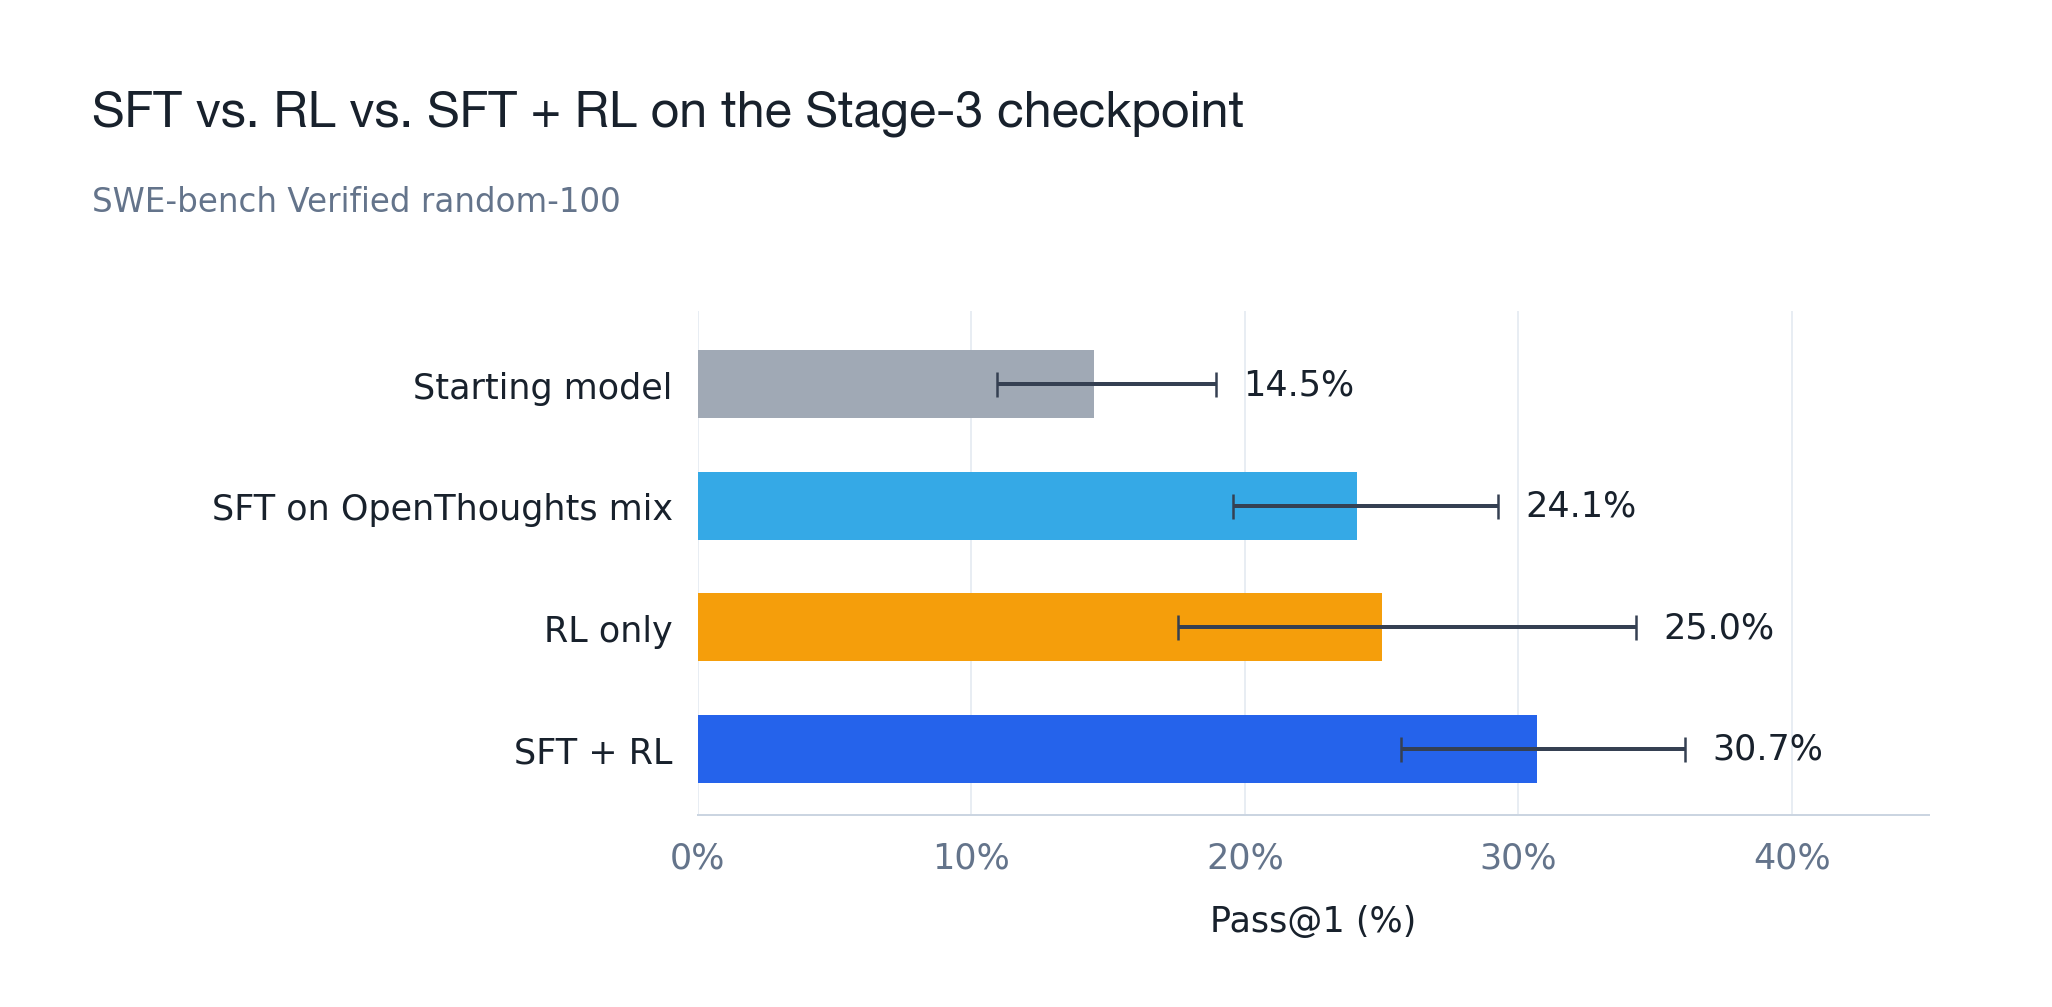
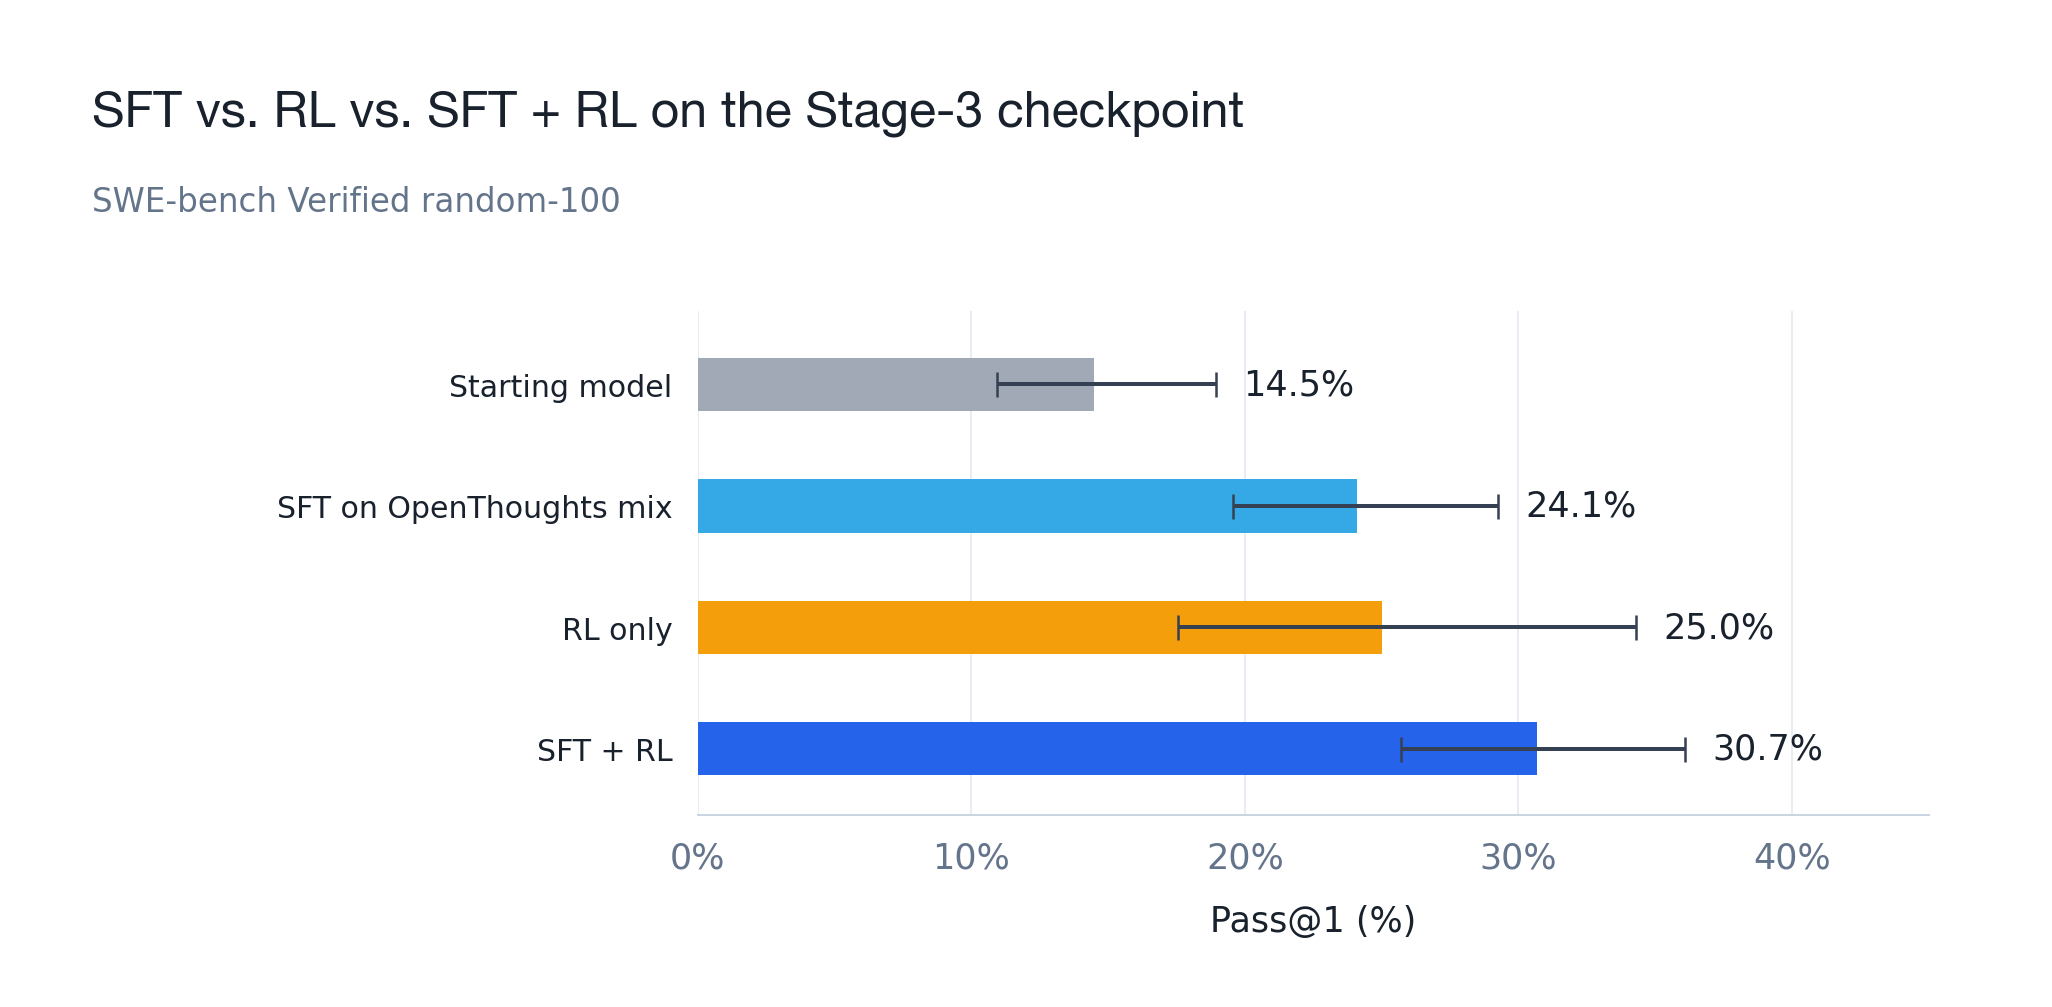
Slim historical comparison bars and row labels

diff --git a/scripts/render_snowball_earlier_swe.py b/scripts/render_snowball_earlier_swe.py
@@ -20,12 +20,12 @@ fig,ax=plt.subplots(figsize=(11.4,5.6));fig.subplots_adjust(left=.34,right=.94,b
 for i,((k,n),color) in enumerate(zip(counts,colors)):
  v=k/n;z=1.959963984540054;d=1+z*z/n;c=(v+z*z/(2*n))/d;h=z*sqrt(v*(1-v)/n+z*z/(4*n*n))/d
  lo,hi=c-h,c+h;y=3-i
- ax.barh(y,100*v,height=.56,color=color,zorder=2)
+ ax.barh(y,100*v,height=.44,color=color,zorder=2)
  ax.errorbar(100*v,y,xerr=[[100*(v-lo)],[100*(hi-v)]],fmt='none',ecolor='#354052',capsize=5,elinewidth=1.6,zorder=3)
  ax.text(100*hi+1,y,f'{100*v:.1f}%',va='center',fontsize=14)
 fig.text(.045,.91,'SFT vs. RL vs. SFT + RL on the Stage-3 checkpoint',fontsize=20,fontproperties=TITLE_FONT,va='top')
 fig.text(.045,.79,'SWE-bench Verified random-100',fontsize=13,color='#64748B')
-ax.set_yticks([3,2,1,0],labels);ax.set(xlim=(0,45),ylim=(-.55,3.6),xlabel='Pass@1 (%)')
+ax.set_yticks([3,2,1,0],labels,fontsize=12);ax.set(xlim=(0,45),ylim=(-.55,3.6),xlabel='Pass@1 (%)')
 ax.set_xticks([0,10,20,30,40]);ax.xaxis.set_major_formatter(PercentFormatter(100,decimals=0))
 ax.set_axisbelow(True);ax.grid(axis='x',color='#E8EDF3',lw=.8);ax.tick_params(length=0,pad=10);ax.xaxis.labelpad=12
 fig.savefig(a.output,dpi=180);fig.savefig(a.output.with_suffix('.svg'))

diff --git a/_posts/2026-10-21-turning-snowball-into-a-coding-agent.md b/_posts/2026-10-21-turning-snowball-into-a-coding-agent.md
@@ -205,7 +205,7 @@ On the older Stage-3 checkpoint, I tried additional SFT on a mixture of OpenThou
 SFT raised SWE-bench from 14.5% to 24.1%; another 30 GRPO updates brought it to 30.7%. RL directly from the starting checkpoint scored 25.0% in its earlier evaluation. SFT could provide a better starting policy, and RL could improve it further.
 
 <figure class="research-figure">
-<a href="{{ '/assets/img/snowball/ota-sft-rl-swe.png?v=stage3-title' | relative_url }}"><img src="{{ '/assets/img/snowball/ota-sft-rl-swe.png?v=stage3-title' | relative_url }}" alt="SWE-bench Verified random-100 on the older Stage-3 checkpoint: starting model 14.5%, SFT 24.1%, RL only 25.0%, and SFT followed by RL 30.7%, with 95% Wilson intervals." width="2052" height="1007" loading="lazy"></a>
+<a href="{{ '/assets/img/snowball/ota-sft-rl-swe.png?v=slimmer-rows' | relative_url }}"><img src="{{ '/assets/img/snowball/ota-sft-rl-swe.png?v=slimmer-rows' | relative_url }}" alt="SWE-bench Verified random-100 on the older Stage-3 checkpoint: starting model 14.5%, SFT 24.1%, RL only 25.0%, and SFT followed by RL 30.7%, with 95% Wilson intervals." width="2052" height="1007" loading="lazy"></a>
 <figcaption>All rows use Eval Policy v0.1. The starting model, SFT, and SFT→RL results pool three evaluation runs; RL-alone is one earlier run at lower concurrency. Treat its comparison as approximate rather than a paired test. Lines show 95% intervals.</figcaption>
 </figure>
 
